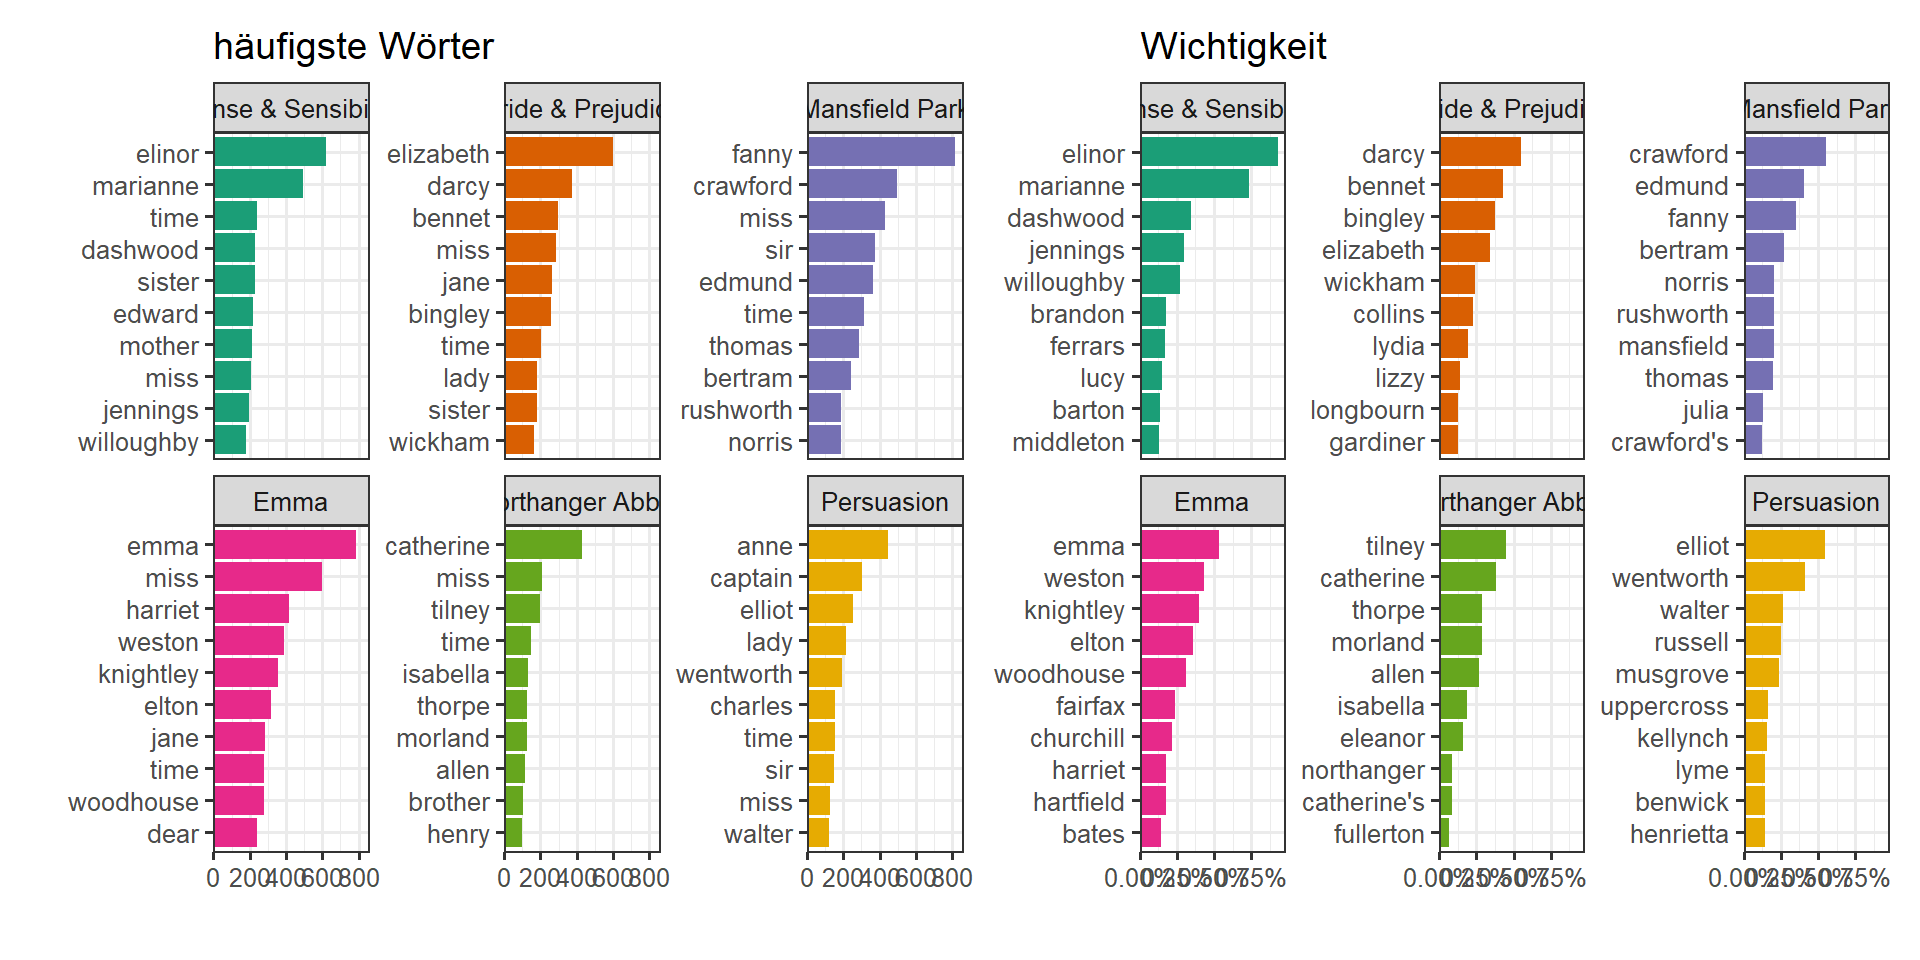
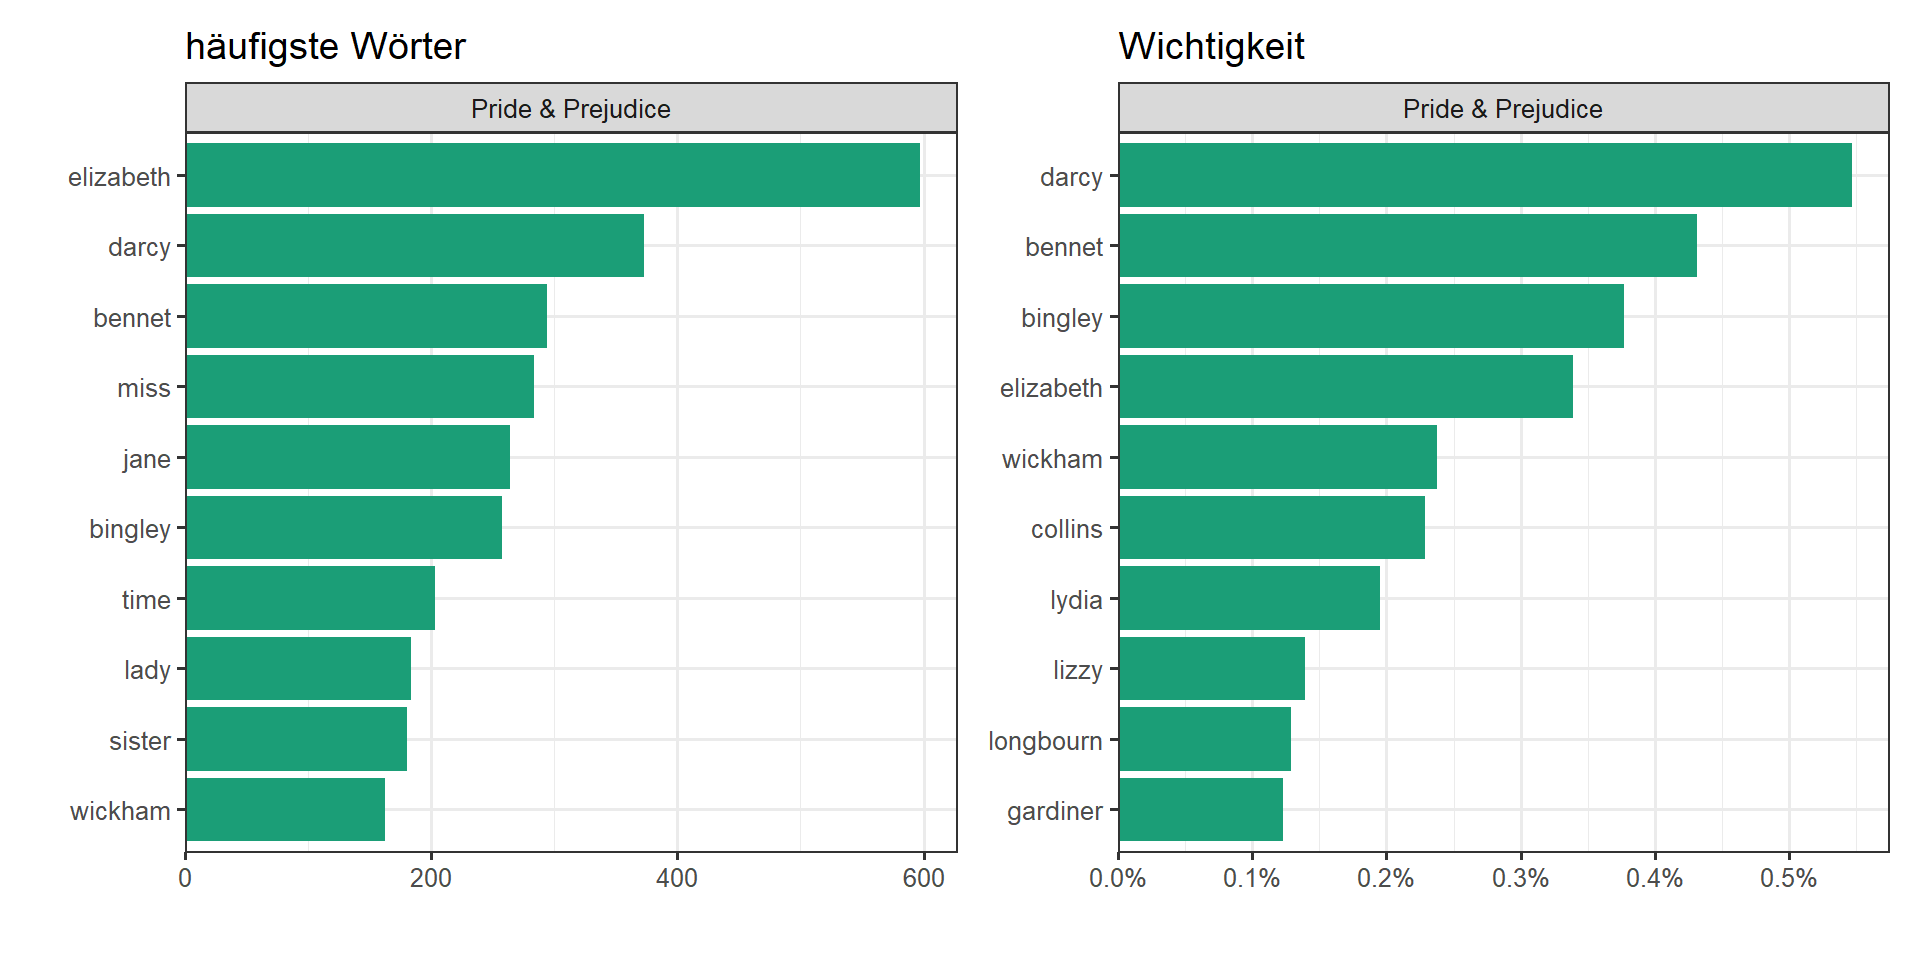
idf only one book

diff --git a/docs/get_started.html b/docs/get_started.html
@@ -240,8 +240,8 @@ window.Quarto = {
 <p>Im ersten Schritt lesen wir die Daten ein. Hierzu benutzen wir die Statistikumgebung <code>R</code>, sie müssen aber nicht viel über Programmieren wissen um die Befehle auszuführen. Wir müssen die Daten leider ein wenig beschränken, da wir sonst nicht mehr alles in einer Tabelle darstellen können.</p>
 <div class="cell">
 <div class="cell-output-display">
-<div class="datatables html-widget html-fill-item" id="htmlwidget-c86a36b16d6cefd6bbd7" style="width:100%;height:auto;"></div>
-<script type="application/json" data-for="htmlwidget-c86a36b16d6cefd6bbd7">{"x":{"filter":"none","vertical":false,"data":[["1","2","3","4","5","6","7","8","9","10","11","12","13","14","15","16","17","18","19","20","21","22","23","24","25","26","27","28","29","30","31","32","33","34","35","36","37","38","39","40","41","42","43","44","45","46","47","48","49","50","51","52","53","54","55","56","57","58","59","60","61","62","63","64","65","66","67","68","69","70","71","72","73","74","75","76","77","78","79","80","81","82","83","84","85","86","87","88","89","90","91","92","93","94","95","96","97","98","99","100"],["SENSE AND SENSIBILITY","","by Jane Austen","","(1811)","","","","","CHAPTER 1","","","The family of Dashwood had long been settled in Sussex.  Their estate","was large, and their residence was at Norland Park, in the centre of","their property, where, for many generations, they had lived in so","respectable a manner as to engage the general good opinion of their","surrounding acquaintance.  The late owner of this estate was a single","man, who lived to a very advanced age, and who for many years of his","life, had a constant companion and housekeeper in his sister.  But her","death, which happened ten years before his own, produced a great","alteration in his home; for to supply her loss, he invited and received","into his house the family of his nephew Mr. Henry Dashwood, the legal","inheritor of the Norland estate, and the person to whom he intended to","bequeath it.  In the society of his nephew and niece, and their","children, the old Gentleman's days were comfortably spent.  His","attachment to them all increased.  The constant attention of Mr. and","Mrs. Henry Dashwood to his wishes, which proceeded not merely from","interest, but from goodness of heart, gave him every degree of solid","comfort which his age could receive; and the cheerfulness of the","children added a relish to his existence.","","By a former marriage, Mr. Henry Dashwood had one son: by his present","lady, three daughters.  The son, a steady respectable young man, was","amply provided for by the fortune of his mother, which had been large,","and half of which devolved on him on his coming of age.  By his own","marriage, likewise, which happened soon afterwards, he added to his","wealth.  To him therefore the succession to the Norland estate was not","so really important as to his sisters; for their fortune, independent","of what might arise to them from their father's inheriting that","property, could be but small.  Their mother had nothing, and their","father only seven thousand pounds in his own disposal; for the","remaining moiety of his first wife's fortune was also secured to her","child, and he had only a life-interest in it.","","The old gentleman died: his will was read, and like almost every other","will, gave as much disappointment as pleasure.  He was neither so","unjust, nor so ungrateful, as to leave his estate from his nephew;--but","he left it to him on such terms as destroyed half the value of the","bequest.  Mr. Dashwood had wished for it more for the sake of his wife","and daughters than for himself or his son;--but to his son, and his","son's son, a child of four years old, it was secured, in such a way, as","to leave to himself no power of providing for those who were most dear","to him, and who most needed a provision by any charge on the estate, or","by any sale of its valuable woods.  The whole was tied up for the","benefit of this child, who, in occasional visits with his father and","mother at Norland, had so far gained on the affections of his uncle, by","such attractions as are by no means unusual in children of two or three","years old; an imperfect articulation, an earnest desire of having his","own way, many cunning tricks, and a great deal of noise, as to outweigh","all the value of all the attention which, for years, he had received","from his niece and her daughters.  He meant not to be unkind, however,","and, as a mark of his affection for the three girls, he left them a","thousand pounds a-piece.","","Mr. Dashwood's disappointment was, at first, severe; but his temper was","cheerful and sanguine; and he might reasonably hope to live many years,","and by living economically, lay by a considerable sum from the produce","of an estate already large, and capable of almost immediate","improvement.  But the fortune, which had been so tardy in coming, was","his only one twelvemonth.  He survived his uncle no longer; and ten","thousand pounds, including the late legacies, was all that remained for","his widow and daughters.","","His son was sent for as soon as his danger was known, and to him Mr.","Dashwood recommended, with all the strength and urgency which illness","could command, the interest of his mother-in-law and sisters.","","Mr. John Dashwood had not the strong feelings of the rest of the","family; but he was affected by a recommendation of such a nature at","such a time, and he promised to do every thing in his power to make","them comfortable.  His father was rendered easy by such an assurance,","and Mr. John Dashwood had then leisure to consider how much there might","prudently be in his power to do for them.","","He was not an ill-disposed young man, unless to be rather cold hearted","and rather selfish is to be ill-disposed: but he was, in general, well","respected; for he conducted himself with propriety in the discharge of","his ordinary duties.  Had he married a more amiable woman, he might","have been made still more respectable than he was:--he might even have","been made amiable himself; for he was very young when he married, and","very fond of his wife.  But Mrs. John Dashwood was a strong caricature","of himself;--more narrow-minded and selfish.","","When he gave his promise to his father, he meditated within himself to","increase the fortunes of his sisters by the present of a thousand","pounds a-piece.  He then really thought himself equal to it.  The","prospect of four thousand a-year, in addition to his present income,","besides the remaining half of his own mother's fortune, warmed his","heart, and made him feel capable of generosity.-- \"Yes, he would give","them three thousand pounds: it would be liberal and handsome! It would"],["Sense &amp; Sensibility","Sense &amp; Sensibility","Sense &amp; Sensibility","Sense &amp; Sensibility","Sense &amp; Sensibility","Sense &amp; Sensibility","Sense &amp; Sensibility","Sense &amp; Sensibility","Sense &amp; Sensibility","Sense &amp; Sensibility","Sense &amp; Sensibility","Sense &amp; Sensibility","Sense &amp; Sensibility","Sense &amp; Sensibility","Sense &amp; Sensibility","Sense &amp; Sensibility","Sense &amp; Sensibility","Sense &amp; Sensibility","Sense &amp; Sensibility","Sense &amp; Sensibility","Sense &amp; Sensibility","Sense &amp; Sensibility","Sense &amp; Sensibility","Sense &amp; Sensibility","Sense &amp; Sensibility","Sense &amp; Sensibility","Sense &amp; Sensibility","Sense &amp; Sensibility","Sense &amp; Sensibility","Sense &amp; Sensibility","Sense &amp; Sensibility","Sense &amp; Sensibility","Sense &amp; Sensibility","Sense &amp; Sensibility","Sense &amp; Sensibility","Sense &amp; Sensibility","Sense &amp; Sensibility","Sense &amp; Sensibility","Sense &amp; Sensibility","Sense &amp; Sensibility","Sense &amp; Sensibility","Sense &amp; Sensibility","Sense &amp; Sensibility","Sense &amp; Sensibility","Sense &amp; Sensibility","Sense &amp; Sensibility","Sense &amp; Sensibility","Sense &amp; Sensibility","Sense &amp; Sensibility","Sense &amp; Sensibility","Sense &amp; Sensibility","Sense &amp; Sensibility","Sense &amp; Sensibility","Sense &amp; Sensibility","Sense &amp; Sensibility","Sense &amp; Sensibility","Sense &amp; Sensibility","Sense &amp; Sensibility","Sense &amp; Sensibility","Sense &amp; Sensibility","Sense &amp; Sensibility","Sense &amp; Sensibility","Sense &amp; Sensibility","Sense &amp; Sensibility","Sense &amp; Sensibility","Sense &amp; Sensibility","Sense &amp; Sensibility","Sense &amp; Sensibility","Sense &amp; Sensibility","Sense &amp; Sensibility","Sense &amp; Sensibility","Sense &amp; Sensibility","Sense &amp; Sensibility","Sense &amp; Sensibility","Sense &amp; Sensibility","Sense &amp; Sensibility","Sense &amp; Sensibility","Sense &amp; Sensibility","Sense &amp; Sensibility","Sense &amp; Sensibility","Sense &amp; Sensibility","Sense &amp; Sensibility","Sense &amp; Sensibility","Sense &amp; Sensibility","Sense &amp; Sensibility","Sense &amp; Sensibility","Sense &amp; Sensibility","Sense &amp; Sensibility","Sense &amp; Sensibility","Sense &amp; Sensibility","Sense &amp; Sensibility","Sense &amp; Sensibility","Sense &amp; Sensibility","Sense &amp; Sensibility","Sense &amp; Sensibility","Sense &amp; Sensibility","Sense &amp; Sensibility","Sense &amp; Sensibility","Sense &amp; Sensibility","Sense &amp; Sensibility"]],"container":"<table class=\"display\">\n  <thead>\n    <tr>\n      <th> <\/th>\n      <th>text<\/th>\n      <th>book<\/th>\n    <\/tr>\n  <\/thead>\n<\/table>","options":{"columnDefs":[{"orderable":false,"targets":0},{"name":" ","targets":0},{"name":"text","targets":1},{"name":"book","targets":2}],"order":[],"autoWidth":false,"orderClasses":false}},"evals":[],"jsHooks":[]}</script>
+<div class="datatables html-widget html-fill-item" id="htmlwidget-53d60e0f5e44bd009a0d" style="width:100%;height:auto;"></div>
+<script type="application/json" data-for="htmlwidget-53d60e0f5e44bd009a0d">{"x":{"filter":"none","vertical":false,"data":[["1","2","3","4","5","6","7","8","9","10","11","12","13","14","15","16","17","18","19","20","21","22","23","24","25","26","27","28","29","30","31","32","33","34","35","36","37","38","39","40","41","42","43","44","45","46","47","48","49","50","51","52","53","54","55","56","57","58","59","60","61","62","63","64","65","66","67","68","69","70","71","72","73","74","75","76","77","78","79","80","81","82","83","84","85","86","87","88","89","90","91","92","93","94","95","96","97","98","99","100"],["SENSE AND SENSIBILITY","","by Jane Austen","","(1811)","","","","","CHAPTER 1","","","The family of Dashwood had long been settled in Sussex.  Their estate","was large, and their residence was at Norland Park, in the centre of","their property, where, for many generations, they had lived in so","respectable a manner as to engage the general good opinion of their","surrounding acquaintance.  The late owner of this estate was a single","man, who lived to a very advanced age, and who for many years of his","life, had a constant companion and housekeeper in his sister.  But her","death, which happened ten years before his own, produced a great","alteration in his home; for to supply her loss, he invited and received","into his house the family of his nephew Mr. Henry Dashwood, the legal","inheritor of the Norland estate, and the person to whom he intended to","bequeath it.  In the society of his nephew and niece, and their","children, the old Gentleman's days were comfortably spent.  His","attachment to them all increased.  The constant attention of Mr. and","Mrs. Henry Dashwood to his wishes, which proceeded not merely from","interest, but from goodness of heart, gave him every degree of solid","comfort which his age could receive; and the cheerfulness of the","children added a relish to his existence.","","By a former marriage, Mr. Henry Dashwood had one son: by his present","lady, three daughters.  The son, a steady respectable young man, was","amply provided for by the fortune of his mother, which had been large,","and half of which devolved on him on his coming of age.  By his own","marriage, likewise, which happened soon afterwards, he added to his","wealth.  To him therefore the succession to the Norland estate was not","so really important as to his sisters; for their fortune, independent","of what might arise to them from their father's inheriting that","property, could be but small.  Their mother had nothing, and their","father only seven thousand pounds in his own disposal; for the","remaining moiety of his first wife's fortune was also secured to her","child, and he had only a life-interest in it.","","The old gentleman died: his will was read, and like almost every other","will, gave as much disappointment as pleasure.  He was neither so","unjust, nor so ungrateful, as to leave his estate from his nephew;--but","he left it to him on such terms as destroyed half the value of the","bequest.  Mr. Dashwood had wished for it more for the sake of his wife","and daughters than for himself or his son;--but to his son, and his","son's son, a child of four years old, it was secured, in such a way, as","to leave to himself no power of providing for those who were most dear","to him, and who most needed a provision by any charge on the estate, or","by any sale of its valuable woods.  The whole was tied up for the","benefit of this child, who, in occasional visits with his father and","mother at Norland, had so far gained on the affections of his uncle, by","such attractions as are by no means unusual in children of two or three","years old; an imperfect articulation, an earnest desire of having his","own way, many cunning tricks, and a great deal of noise, as to outweigh","all the value of all the attention which, for years, he had received","from his niece and her daughters.  He meant not to be unkind, however,","and, as a mark of his affection for the three girls, he left them a","thousand pounds a-piece.","","Mr. Dashwood's disappointment was, at first, severe; but his temper was","cheerful and sanguine; and he might reasonably hope to live many years,","and by living economically, lay by a considerable sum from the produce","of an estate already large, and capable of almost immediate","improvement.  But the fortune, which had been so tardy in coming, was","his only one twelvemonth.  He survived his uncle no longer; and ten","thousand pounds, including the late legacies, was all that remained for","his widow and daughters.","","His son was sent for as soon as his danger was known, and to him Mr.","Dashwood recommended, with all the strength and urgency which illness","could command, the interest of his mother-in-law and sisters.","","Mr. John Dashwood had not the strong feelings of the rest of the","family; but he was affected by a recommendation of such a nature at","such a time, and he promised to do every thing in his power to make","them comfortable.  His father was rendered easy by such an assurance,","and Mr. John Dashwood had then leisure to consider how much there might","prudently be in his power to do for them.","","He was not an ill-disposed young man, unless to be rather cold hearted","and rather selfish is to be ill-disposed: but he was, in general, well","respected; for he conducted himself with propriety in the discharge of","his ordinary duties.  Had he married a more amiable woman, he might","have been made still more respectable than he was:--he might even have","been made amiable himself; for he was very young when he married, and","very fond of his wife.  But Mrs. John Dashwood was a strong caricature","of himself;--more narrow-minded and selfish.","","When he gave his promise to his father, he meditated within himself to","increase the fortunes of his sisters by the present of a thousand","pounds a-piece.  He then really thought himself equal to it.  The","prospect of four thousand a-year, in addition to his present income,","besides the remaining half of his own mother's fortune, warmed his","heart, and made him feel capable of generosity.-- \"Yes, he would give","them three thousand pounds: it would be liberal and handsome! It would"],["Sense &amp; Sensibility","Sense &amp; Sensibility","Sense &amp; Sensibility","Sense &amp; Sensibility","Sense &amp; Sensibility","Sense &amp; Sensibility","Sense &amp; Sensibility","Sense &amp; Sensibility","Sense &amp; Sensibility","Sense &amp; Sensibility","Sense &amp; Sensibility","Sense &amp; Sensibility","Sense &amp; Sensibility","Sense &amp; Sensibility","Sense &amp; Sensibility","Sense &amp; Sensibility","Sense &amp; Sensibility","Sense &amp; Sensibility","Sense &amp; Sensibility","Sense &amp; Sensibility","Sense &amp; Sensibility","Sense &amp; Sensibility","Sense &amp; Sensibility","Sense &amp; Sensibility","Sense &amp; Sensibility","Sense &amp; Sensibility","Sense &amp; Sensibility","Sense &amp; Sensibility","Sense &amp; Sensibility","Sense &amp; Sensibility","Sense &amp; Sensibility","Sense &amp; Sensibility","Sense &amp; Sensibility","Sense &amp; Sensibility","Sense &amp; Sensibility","Sense &amp; Sensibility","Sense &amp; Sensibility","Sense &amp; Sensibility","Sense &amp; Sensibility","Sense &amp; Sensibility","Sense &amp; Sensibility","Sense &amp; Sensibility","Sense &amp; Sensibility","Sense &amp; Sensibility","Sense &amp; Sensibility","Sense &amp; Sensibility","Sense &amp; Sensibility","Sense &amp; Sensibility","Sense &amp; Sensibility","Sense &amp; Sensibility","Sense &amp; Sensibility","Sense &amp; Sensibility","Sense &amp; Sensibility","Sense &amp; Sensibility","Sense &amp; Sensibility","Sense &amp; Sensibility","Sense &amp; Sensibility","Sense &amp; Sensibility","Sense &amp; Sensibility","Sense &amp; Sensibility","Sense &amp; Sensibility","Sense &amp; Sensibility","Sense &amp; Sensibility","Sense &amp; Sensibility","Sense &amp; Sensibility","Sense &amp; Sensibility","Sense &amp; Sensibility","Sense &amp; Sensibility","Sense &amp; Sensibility","Sense &amp; Sensibility","Sense &amp; Sensibility","Sense &amp; Sensibility","Sense &amp; Sensibility","Sense &amp; Sensibility","Sense &amp; Sensibility","Sense &amp; Sensibility","Sense &amp; Sensibility","Sense &amp; Sensibility","Sense &amp; Sensibility","Sense &amp; Sensibility","Sense &amp; Sensibility","Sense &amp; Sensibility","Sense &amp; Sensibility","Sense &amp; Sensibility","Sense &amp; Sensibility","Sense &amp; Sensibility","Sense &amp; Sensibility","Sense &amp; Sensibility","Sense &amp; Sensibility","Sense &amp; Sensibility","Sense &amp; Sensibility","Sense &amp; Sensibility","Sense &amp; Sensibility","Sense &amp; Sensibility","Sense &amp; Sensibility","Sense &amp; Sensibility","Sense &amp; Sensibility","Sense &amp; Sensibility","Sense &amp; Sensibility","Sense &amp; Sensibility"]],"container":"<table class=\"display\">\n  <thead>\n    <tr>\n      <th> <\/th>\n      <th>text<\/th>\n      <th>book<\/th>\n    <\/tr>\n  <\/thead>\n<\/table>","options":{"columnDefs":[{"orderable":false,"targets":0},{"name":" ","targets":0},{"name":"text","targets":1},{"name":"book","targets":2}],"order":[],"autoWidth":false,"orderClasses":false}},"evals":[],"jsHooks":[]}</script>
 </div>
 </div>
 </section>

diff --git a/docs/tf_idf.html b/docs/tf_idf.html
@@ -300,14 +300,8 @@ eyJhdHRyIjp7ImVkaXQiOnRydWUsImV2YWwiOnRydWV9LCJjb2RlIjoiXG5ib29rX3dvcmRzIDwtIGJv
 </div>
 <section id="vergleich-mit-termhäufigkeit" class="level2">
 <h2 class="anchored" data-anchor-id="vergleich-mit-termhäufigkeit">Vergleich mit Termhäufigkeit</h2>
-<p>Ein Vergleich der <em>idf</em> mit der <em>tf</em> zeigt, das nur weil ein Wort häufig in einem Buch vorkommt, dies nicht automatisch wichtig ist. Im Vergleich sind die Top 10 der häufigsten Wörter gegen die Top 10 der <em>idf</em> dargestellt. Klar zu erkennen ist, das die für die Romane am wichtigsten Wörter (vor allem Roman<em>figuren</em>) am ehesten mit der <em>idf</em> vorherzusagen sind.</p>
+<p>Ein Vergleich der <em>idf</em> mit der <em>tf</em> zeigt, das nur weil ein Wort häufig in einem Buch vorkommt, dies nicht automatisch wichtig ist. Im Vergleich sind die Top 10 der häufigsten Wörter gegen die Top 10 der <em>idf</em> dargestellt im Roman “Stolz und Vorurteil” (“Pride &amp; Prejudice”). Klar zu erkennen ist, das die für die Romane am wichtigsten Wörter (vor allem Roman<em>figuren</em>) am ehesten mit der <em>idf</em> vorherzusagen sind.</p>
 <div class="cell">
-<div class="cell-output cell-output-stderr">
-<pre><code>Warning: Paket 'janeaustenr' wurde unter R Version 4.4.2 erstellt</code></pre>
-</div>
-<div class="cell-output cell-output-stderr">
-<pre><code>Warning: Paket 'tidytext' wurde unter R Version 4.4.2 erstellt</code></pre>
-</div>
 <div class="cell-output-display">
 <div>
 <figure class="figure">
